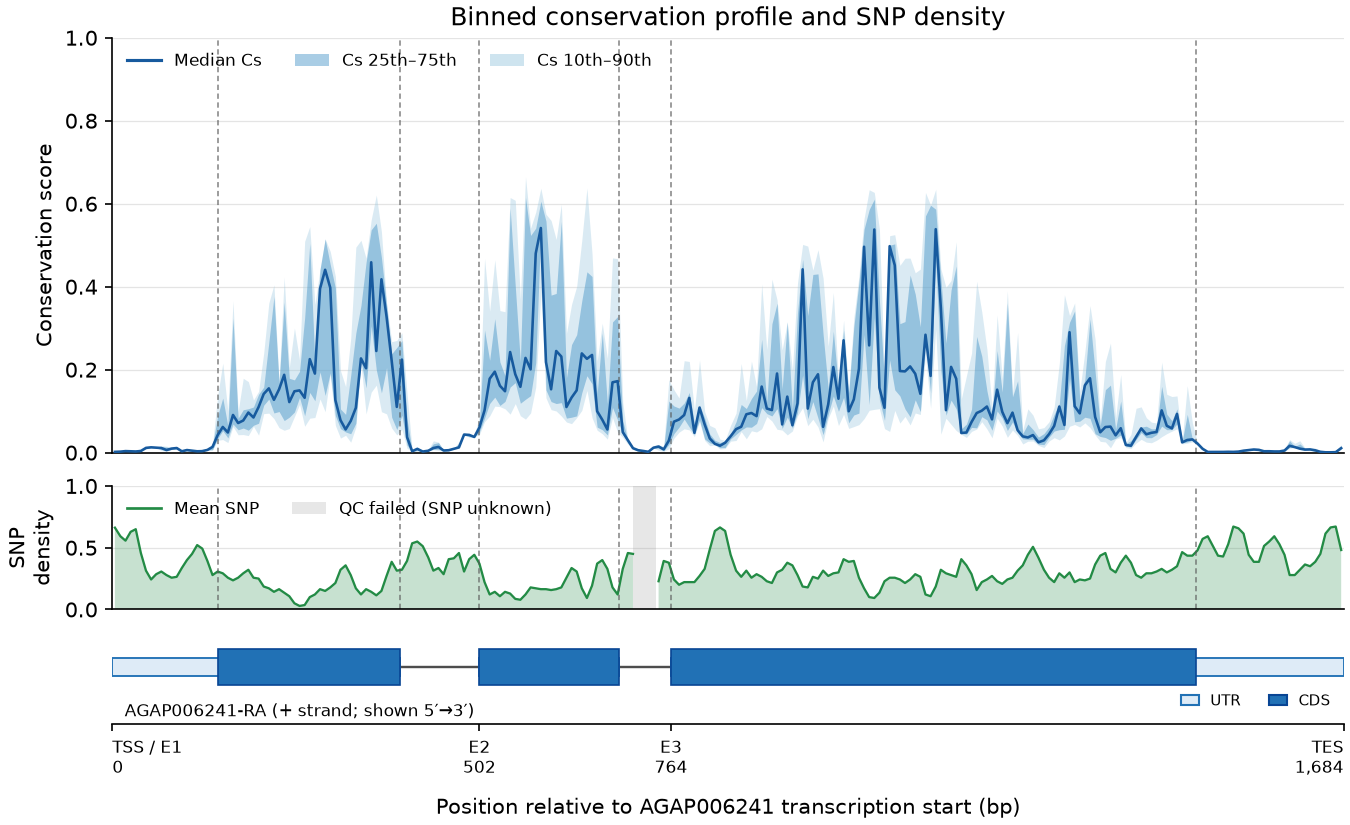
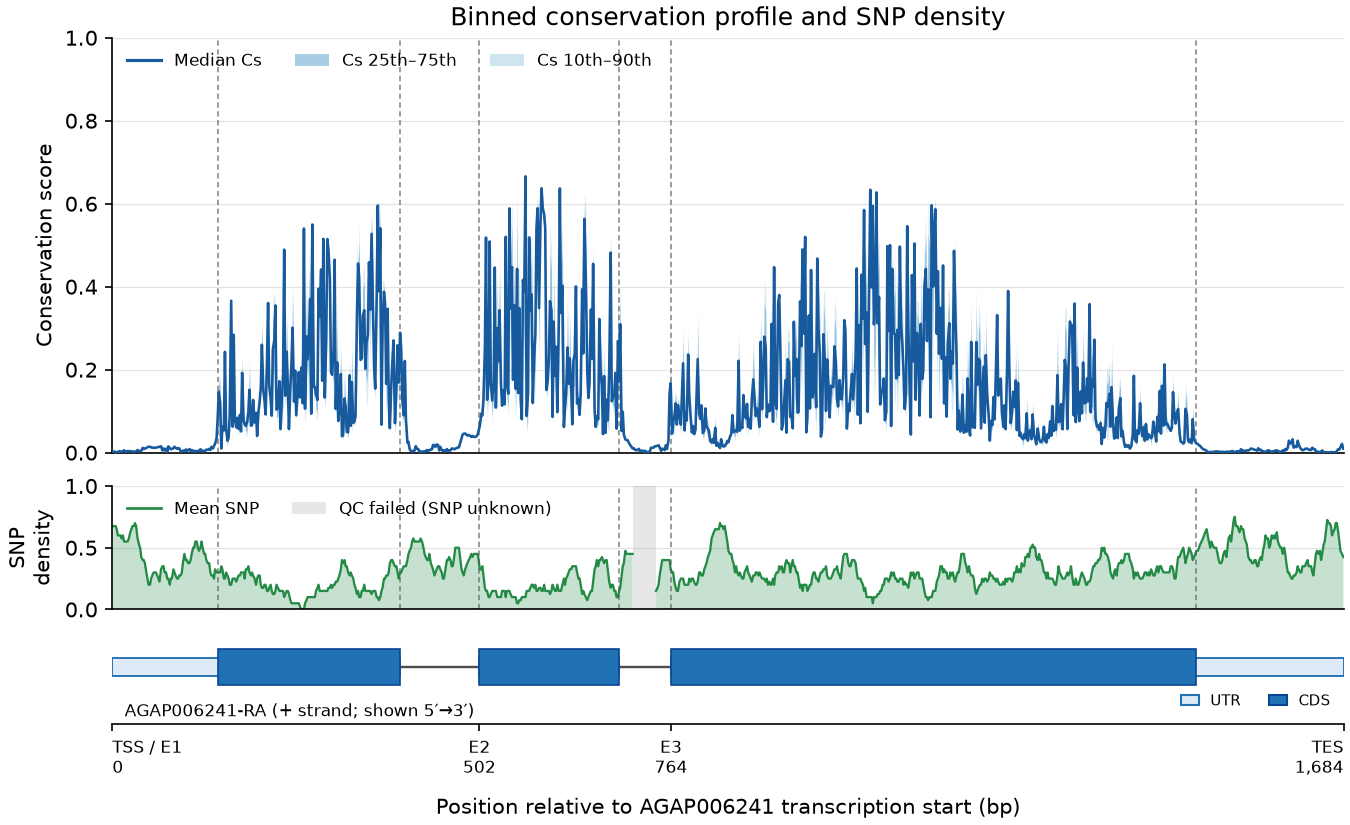
Align heatmap axes and improve plot readability

diff --git a/docs/index.html b/docs/index.html
@@ -16,15 +16,15 @@
   <title>AgamCs conservation explorer</title>
   <link rel="canonical" href="https://tycour.github.io/AgamCs/">
   <link rel="icon" href="assets/favicon.svg" type="image/svg+xml">
-  <link rel="stylesheet" href="assets/site.css?v=2026-08-30-annotation-gene-links">
-  <script src="assets/plot-model.js?v=2026-08-30-annotation-gene-links" defer></script>
-  <script src="assets/live-plots.js?v=2026-08-30-annotation-gene-links" defer></script>
-  <script src="assets/gene-search.js?v=2026-08-30-annotation-gene-links" defer></script>
-  <script src="assets/accession-lookup.js?v=2026-08-30-annotation-gene-links" defer></script>
-  <script src="assets/query-contract.js?v=2026-08-30-annotation-gene-links" defer></script>
-  <script src="assets/query-interaction.js?v=2026-08-30-annotation-gene-links" defer></script>
-  <script src="assets/analytics.js?v=2026-08-30-annotation-gene-links" data-measurement-id="G-25RC4QKPP9" defer></script>
-  <script src="assets/site.js?v=2026-08-30-annotation-gene-links" defer></script>
+  <link rel="stylesheet" href="assets/site.css?v=2026-08-30-heatmap-axis">
+  <script src="assets/plot-model.js?v=2026-08-30-heatmap-axis" defer></script>
+  <script src="assets/live-plots.js?v=2026-08-30-heatmap-axis" defer></script>
+  <script src="assets/gene-search.js?v=2026-08-30-heatmap-axis" defer></script>
+  <script src="assets/accession-lookup.js?v=2026-08-30-heatmap-axis" defer></script>
+  <script src="assets/query-contract.js?v=2026-08-30-heatmap-axis" defer></script>
+  <script src="assets/query-interaction.js?v=2026-08-30-heatmap-axis" defer></script>
+  <script src="assets/analytics.js?v=2026-08-30-heatmap-axis" data-measurement-id="G-25RC4QKPP9" defer></script>
+  <script src="assets/site.js?v=2026-08-30-heatmap-axis" defer></script>
 </head>
 <body>
   <header class="site-header">

diff --git a/docs/assets/live-plots.js b/docs/assets/live-plots.js
@@ -909,17 +909,15 @@
     addText(svg, requirePlotContract().heatmap_layout.title, plotLeft, 27, {
       fill: COLORS.ink, 'font-size': 18, 'font-weight': 700,
     });
-    addText(svg, `${result.chromosome}:${summary.displayStart.toLocaleString()}–${summary.displayEnd.toLocaleString()} · ${result.stackRows.length} metadata-ordered species · ${summary.bins.length} display bins`, plotLeft, 49, {
+    addText(svg, `${result.chromosome}:${summary.displayStart.toLocaleString()}–${summary.displayEnd.toLocaleString()} · ${result.stackRows.length} comparison species · ${summary.bins.length} display bins`, plotLeft, 49, {
       fill: COLORS.muted, 'font-size': 12,
     });
     addText(svg, 'Evidence-bounded cladogram', 22, 22, {
       fill: COLORS.muted, 'font-size': 10, 'font-weight': 650,
     });
     CLADE_NAMES.forEach((name, index) => {
-      const column = index % 2;
-      const row = Math.floor(index / 2);
-      const x = 22 + column * 108;
-      const y = 43 + row * 18;
+      const x = 22;
+      const y = 40 + index * 13;
       svg.append(svgElement('rect', { x, y: y - 9, width: 9, height: 9, fill: CLADE_COLORS[index] }));
       addText(svg, name, x + 14, y, { fill: COLORS.muted, 'font-size': 9 });
     });

diff --git a/tests/plot-model.test.js b/tests/plot-model.test.js
@@ -113,16 +113,16 @@ test('contract palette has stable bounded RGB samples', () => {
 test('heatmap geometry matches the Pages viewBox coordinate contract', () => {
   assert.deepEqual(model.heatmapGeometry(21, 500, contract), {
     width: 1000,
-    height: 653,
+    height: 667,
     plotLeft: 210,
     plotRight: 930,
     plotWidth: 720,
     plotHeight: 483,
-    rowTop: 78,
+    rowTop: 92,
     rowHeight: 23,
     cellWidth: 1.44,
   });
-  assert.equal(model.heatmapGeometry(21, 500, contract, 2).height, 851);
+  assert.equal(model.heatmapGeometry(21, 500, contract, 2).height, 824);
 });
 
 test('multi-isoform filtering is stable and matches the displayed gene frame', () => {

diff --git a/tests/live-plots.test.js b/tests/live-plots.test.js
@@ -325,7 +325,7 @@ test('Pages heatmap retains accessible SVG metadata and browser-only tooltips', 
     assert.equal(tooltip.name, 'div');
     assert.ok(svg.listeners.has('pointermove'));
     assert.ok(svg.listeners.has('pointerleave'));
-    svg.listeners.get('pointermove')({ clientX: 500, clientY: 90 });
+    svg.listeners.get('pointermove')({ clientX: 500, clientY: 100 });
     assert.equal(tooltip.hidden, false);
     assert.match(tooltip.innerHTML, /mean identity|No detected CNEr interval/);
     svg.listeners.get('pointerleave')();

diff --git a/docs/assets/query-worker.js b/docs/assets/query-worker.js
@@ -1,4 +1,4 @@
-const WORKER_RELEASE = '2026-08-30-annotation-gene-links';
+const WORKER_RELEASE = '2026-08-30-heatmap-axis';
 const SCORE_REFERENCE_URL = `data/score-reference.json?v=${WORKER_RELEASE}`;
 const ACCESSIBILITY_REFERENCE_URL = `data/accessibility-reference.json?v=${WORKER_RELEASE}`;
 const HASH_ARRAYS = ['Cs', 'snp_density', 'stack', 'status'];

diff --git a/docs/assets/site.js b/docs/assets/site.js
@@ -1,4 +1,4 @@
-const PAGES_RELEASE = '2026-08-30-annotation-gene-links';
+const PAGES_RELEASE = '2026-08-30-heatmap-axis';
 const LOCAL_FILE_PREVIEW_MESSAGE = 'This explorer cannot run from a file:// URL. From the AgamCs repository, start python3 -m http.server 8000 --directory docs, then open http://127.0.0.1:8000/.';
 
 function versionedAsset(path) {

diff --git a/AgamCs/heatmap_renderer.py b/AgamCs/heatmap_renderer.py
@@ -34,6 +34,11 @@ from .plot_model import (
 )
 
 
+LOGICAL_DPI = 72
+PNG_DPI = 144
+SPECIES_LABEL_FONT_SIZE = 10
+
+
 def _figure_coordinates(geometry, x, y):
     return x / geometry['width'], 1 - y / geometry['height']
 
@@ -41,13 +46,37 @@ def _figure_coordinates(geometry, x, y):
 def _draw_transcript_rows(fig, geometry, annotation, transcript_annotations, y_top):
     mapper = _gene_coordinate_mapper(annotation)
     minimum, maximum = 0, int(annotation['end']) - int(annotation['start'])
-    axis_height = max(40, len(transcript_annotations) * 24 + 18)
+    row_height = 24
+    axis_top = y_top + 18
+    axis_height = max(72, len(transcript_annotations) * row_height + 48)
     left = geometry['plotLeft'] / geometry['width']
-    bottom = 1 - (y_top + axis_height) / geometry['height']
+    bottom = 1 - (axis_top + axis_height) / geometry['height']
     width = geometry['plotWidth'] / geometry['width']
     axis = fig.add_axes([left, bottom, width, axis_height / geometry['height']])
     axis.set_xlim(minimum, maximum)
-    axis.set_ylim(-0.5, len(transcript_annotations) - 0.5)
+    axis.set_ylim(-1, len(transcript_annotations) - 0.5)
+
+    title_x, title_y = _figure_coordinates(geometry, geometry['plotLeft'], y_top)
+    fig.text(
+        title_x, title_y,
+        f"Transcript models ({len(transcript_annotations)}; selected/representative in bold)",
+        ha='left', va='baseline', fontsize=12, fontweight='bold', color='#172925',
+    )
+    for x, label, facecolor, edgecolor in (
+        (700, 'UTR', UTR_FACE_COLOR, UTR_EDGE_COLOR),
+        (808, 'CDS', CDS_FACE_COLOR, CDS_EDGE_COLOR),
+    ):
+        box_x, box_y = _figure_coordinates(geometry, x, y_top + 8)
+        fig.add_artist(Rectangle(
+            (box_x, box_y), 16 / geometry['width'], 10 / geometry['height'],
+            transform=fig.transFigure, facecolor=facecolor, edgecolor=edgecolor,
+            linewidth=0.8,
+        ))
+        fig.text(
+            *_figure_coordinates(geometry, x + 22, y_top), label,
+            ha='left', va='baseline', fontsize=11, color='#5d6b67',
+        )
+
     for row, transcript in enumerate(reversed(transcript_annotations)):
         selected = transcript.get('transcript_id') == annotation.get('transcript_id')
         exons = []
@@ -76,8 +105,23 @@ def _draw_transcript_rows(fig, geometry, annotation, transcript_annotations, y_t
                     ))
         axis.text(-0.01, row, transcript.get('transcript_id', ''),
                   transform=axis.get_yaxis_transform(), ha='right', va='center',
-                  fontsize=7, fontweight='bold' if selected else 'normal')
-    axis.axis('off')
+                  fontsize=9, fontweight='bold' if selected else 'normal')
+
+    ticks = np.linspace(minimum, maximum, 7)
+    axis.set_xticks(ticks, [f'{round(value):,}' for value in ticks])
+    axis.set_xlabel(
+        f"Position relative to {annotation['id']} transcription start (bp)",
+        fontsize=12, color='#172925', labelpad=8,
+    )
+    axis.tick_params(
+        axis='x', which='both', bottom=True, top=False, labelbottom=True,
+        colors='#5d6b67', labelsize=10, length=4, width=0.8, pad=4,
+    )
+    axis.tick_params(axis='y', left=False, labelleft=False)
+    for name in ('top', 'left', 'right'):
+        axis.spines[name].set_visible(False)
+    axis.spines['bottom'].set_color('#5d6b67')
+    axis.spines['bottom'].set_linewidth(0.8)
 
 
 def _add_svg_accessibility(path, title, description):
@@ -125,8 +169,8 @@ def render_heatmap(
     layout = contract['heatmap_layout']
 
     fig = plt.figure(
-        figsize=(geometry['width'] / 72, geometry['height'] / 72),
-        dpi=72,
+        figsize=(geometry['width'] / LOGICAL_DPI, geometry['height'] / LOGICAL_DPI),
+        dpi=LOGICAL_DPI,
         facecolor='white',
     )
     plot_bottom = 1 - (geometry['rowTop'] + geometry['plotHeight']) / geometry['height']
@@ -179,7 +223,11 @@ def render_heatmap(
             geometry, geometry['plotLeft'] - 12,
             geometry['rowTop'] + (row_index + 0.68) * geometry['rowHeight'],
         )
-        fig.text(x, y, label, ha='right', va='center', fontsize=7.9,
+        # Matplotlib's default sans-serif face is wider than the browser's
+        # Inter/system stack. Ten points preserves the Pages visual scale while
+        # keeping the longest label clear of the cladogram's clade strip.
+        fig.text(x, y, label, ha='right', va='center',
+                 fontsize=SPECIES_LABEL_FONT_SIZE,
                  fontstyle='italic', fontweight='semibold', color='#172925')
         clade_index = next(
             index for index, (_name, codes, _foreground, _background)
@@ -198,12 +246,12 @@ def render_heatmap(
 
     title_x, title_y = _figure_coordinates(geometry, geometry['plotLeft'], 27)
     fig.text(title_x, title_y, layout['title'], ha='left', va='baseline',
-             fontsize=13, fontweight='bold', color='#172925')
+             fontsize=18, fontweight='bold', color='#172925')
     subtitle_x, subtitle_y = _figure_coordinates(geometry, geometry['plotLeft'], 49)
     fig.text(
         subtitle_x, subtitle_y,
-        f"{len(result['stackRows'])} metadata-ordered species · {bin_count} display bins",
-        ha='left', va='baseline', fontsize=8.5, color='#5d6b67',
+        f"{len(result['stackRows'])} comparison species · {bin_count} display bins",
+        ha='left', va='baseline', fontsize=12, color='#5d6b67',
     )
     legend_y = geometry['rowTop'] + geometry['plotHeight'] + 27
     legend_x, legend_fig_y = _figure_coordinates(geometry, geometry['plotLeft'], legend_y)
@@ -211,7 +259,7 @@ def render_heatmap(
         handles=[Patch(facecolor=np.asarray(contract['palette']['no_interval_rgb']) / 255,
                        label=layout['no_interval_label'])],
         loc='center left', bbox_to_anchor=(legend_x, legend_fig_y),
-        frameon=False, fontsize=8,
+        frameon=False, fontsize=11,
     )
     gradient_axis = fig.add_axes([
         700 / geometry['width'],
@@ -225,29 +273,22 @@ def render_heatmap(
     gradient_axis.imshow(gradient, aspect='auto', interpolation='nearest')
     gradient_axis.axis('off')
     fig.text(*_figure_coordinates(geometry, 696, legend_y + 16), '0',
-             ha='center', va='baseline', fontsize=7, color='#5d6b67')
+             ha='center', va='baseline', fontsize=10, color='#5d6b67')
     fig.text(*_figure_coordinates(geometry, 894, legend_y + 16), '100',
-             ha='center', va='baseline', fontsize=7, color='#5d6b67')
+             ha='center', va='baseline', fontsize=10, color='#5d6b67')
     fig.text(
         *_figure_coordinates(geometry, 795, legend_y + 32),
-        layout['identity_label'], ha='center', va='baseline', fontsize=8, color='#5d6b67',
+        layout['identity_label'], ha='center', va='baseline', fontsize=11, color='#5d6b67',
     )
     for index, (name, _codes, foreground, _background) in enumerate(CLADE_STYLES):
-        column, row = index % 2, index // 2
-        fig.text(*_figure_coordinates(geometry, 36 + column * 108, 43 + row * 18),
-                 name, ha='left', va='baseline', fontsize=6.5, color=foreground)
+        fig.text(*_figure_coordinates(geometry, 36, 40 + index * 13),
+                 name, ha='left', va='baseline', fontsize=9, color=foreground)
     fig.text(*_figure_coordinates(geometry, 22, 22), 'Evidence-bounded cladogram',
-             ha='left', va='baseline', fontsize=7, color='#5d6b67')
+             ha='left', va='baseline', fontsize=10, color='#5d6b67')
 
     if applied_annotation:
         _draw_transcript_rows(
             fig, geometry, applied_annotation, transcript_annotations, legend_y + 60,
-        )
-        fig.text(
-            *_figure_coordinates(geometry, (geometry['plotLeft'] + geometry['plotRight']) / 2,
-                                  geometry['height'] - 24),
-            f"Position relative to {applied_annotation['id']} transcription start (bp)",
-            ha='center', va='baseline', fontsize=8.5, color='#172925',
         )
 
     description = (
@@ -260,10 +301,10 @@ def render_heatmap(
     png_output_path = Path(png_output_path)
     svg_output_path.parent.mkdir(parents=True, exist_ok=True)
     png_output_path.parent.mkdir(parents=True, exist_ok=True)
-    fig.savefig(svg_output_path, format='svg', dpi=72, metadata={
+    fig.savefig(svg_output_path, format='svg', dpi=LOGICAL_DPI, metadata={
         'Description': description,
     })
-    fig.savefig(png_output_path, format='png', dpi=72, facecolor='white')
+    fig.savefig(png_output_path, format='png', dpi=PNG_DPI, facecolor='white')
     plt.close(fig)
     _add_svg_accessibility(svg_output_path, layout['title'], description)
     return model

diff --git a/tests/test_plot_model.py b/tests/test_plot_model.py
@@ -359,6 +359,9 @@ def test_renderer_writes_contract_geometry_svg_and_png_without_node(tmp_path, mo
     assert '<desc id="agamcs-heatmap-description">' in svg_text
     assert 'Zero means no detected CNEr interval' in svg_text
     assert 'QC-failed SNP positions remain unknown' in svg_text
+    assert 'Transcript models (2; selected/representative in bold)' in svg_text
+    assert 'Position relative to AGAPPOC transcription start (bp)' in svg_text
+    assert '<g id="matplotlib.axis_1">' in svg_text
     first_cell = model['heatmap']['cells'][0][0]
     first_rgb = blended_identity_rgb(
         first_cell['identity'], first_cell['detectedFraction'], contract,
@@ -366,7 +369,7 @@ def test_renderer_writes_contract_geometry_svg_and_png_without_node(tmp_path, mo
     assert f"#{''.join(f'{channel:02x}' for channel in first_rgb)}" in svg_text.lower()
     assert png.stat().st_size > 0
     assert mpimg.imread(png).shape[:2] == (
-        expected_geometry['height'], expected_geometry['width'],
+        expected_geometry['height'] * 2, expected_geometry['width'] * 2,
     )
 
 

diff --git a/README.md b/README.md
@@ -2,13 +2,13 @@
 
 **Use AgamCs in your browser:** [open the AgamCs research portal](https://tycour.github.io/AgamCs/).
 
-The GitHub Pages portal is the easiest way to query a current AgamP4.14
-`AGAP...` gene or exact transcript isoform on 2L, 2R, 3L, 3R, or X, or to enter
-AgamP4 genomic coordinates, then inspect the figures and download exact values.
-Either query mode can optionally add representative transcript tracks for every
-indexed gene overlapping the displayed region.
-Every transcript-ID label in the browser figures links to its parent gene's
-VectorBase record in a new tab.
+The GitHub Pages portal is the easiest way to find a current AgamP4.14 gene by
+official symbol or `AGAP...` accession, query an exact transcript isoform on 2L,
+2R, 3L, 3R, or X, or enter AgamP4 genomic coordinates, then inspect the figures
+and download exact values.
+Either query mode can optionally show a representative transcript for each
+indexed gene overlapping the displayed region, with transcript labels linking
+to the parent gene's VectorBase record.
 The conservation arrays are from the published AgamP4 dataset; AgamP4.14 refers
 to the current VectorBase annotation index used for gene and transcript lookup.
 The portal is available without installation. The command-line tool below is
@@ -104,10 +104,12 @@ why the binned summary is usually the better presentation view.
 
 ![Base-level conservation and SNP-density plot for AGAP006241](results/AGAP006241/AGAP006241/AGAP006241_cs_snp_density.png)
 
-The heatmap shows cross-species identity for the same interval, with CDS guides
-aligned to the signal plots.
+The current species heatmap places an evidence-bounded cladogram beside 21
+comparison species. CDS guides sit above the heatmap, the charcoal
+and identity legends are separated below it, and the transcript model remains
+aligned to the same genomic axis used by the signal plots.
 
-![AGAP006241 cross-species identity heatmap](results/AGAP006241/AGAP006241/AGAP006241_heatmap.png)
+[![AGAP006241 cross-species identity heatmap with cladogram, species rows, identity legend, and aligned transcript model](results/AGAP006241/AGAP006241/AGAP006241_heatmap.png)](results/AGAP006241/AGAP006241/AGAP006241_heatmap.png)
 
 The CLI heatmap is canonical SVG with a retained PNG counterpart; the other CLI
 figures remain PNG. The Pages portal renders the same contract-defined heatmap
@@ -200,34 +202,19 @@ and the rebuild procedure are in
 
 Try the [no-install GitHub Pages portal](https://tycour.github.io/AgamCs/).
 Its versioned VectorBase-68 index resolves 13,097 AgamP4.14 genes and 15,317
-transcript isoforms on the five supported chromosomes; an autocomplete also
-matches 2,255 official AgamP4 gene symbols from a separately versioned naming
-index. It uses the published AgamP4 conservation arrays. A bare gene ID retains
-the representative-transcript default while showing every isoform as aligned
-annotation rows beneath both plots; an exact ID such as `AGAP000040-RA` uses
-that isoform's transcript span, exons and CDS bounds. Gene, transcript and
-coordinate queries read only the required `Cs`, raw SNP-density, species-stack,
-and separate QC ranges from the Zenodo data and render live browser plots;
-featured examples remain as shortcuts in the same query form. The inclusive
-browser query limit is 200,000 bases. This is an engineering/browser ceiling,
-not a biological threshold: it supports 13,080 of 13,097 indexed genes
-(99.8702%), while the 17 longer genes remain CLI-only. Failed accessibility/QC
-positions remain separate from the raw SNP-density values and are shown as
-unknown. Browser reads require HTTP 206 partial-content responses; the exact TSV
-retains every base and all 21 stack values while adaptive or explicitly selected
-display bins affect plots and SVG downloads only. Range zoom can be chosen by
-dragging across either plot or entering inclusive genomic coordinates; nested
-zoom-out and full-query reset rerender the retained source arrays without a new
-Zenodo request. Plot selections expand to the touched display-bin boundaries,
-while the exact TSV and query summary remain scoped to the complete query.
-An optional annotation control works for both accession and manual-coordinate
-queries. It adds one representative transcript for each other indexed gene
-overlapping the current displayed range and updates locally as the plots are
-zoomed; the queried gene keeps its selected transcript or complete isoform set.
-Each transcript label in either browser figure is a direct link to its parent
-gene's VectorBase record.
-Publishing and
-implementation details are documented in
+transcript isoforms on chromosomes 2L, 2R, 3L, 3R, and X. Its autocomplete
+matches 2,255 official AgamP4 gene symbols: for example, typing `ZPG` suggests
+`AGAP006241` (Innexin inx2). It uses the published AgamP4 conservation arrays.
+Failed accessibility/QC positions are shown as unknown rather than zero. You
+can add flanking sequence to accession queries, change the plot resolution
+without rerunning the genomic query, and download the figures and exact values.
+Drag across either plot, or enter inclusive coordinates, to focus on a range;
+use **Zoom out** to step back or **Reset full query** to restore the complete
+view. The optional overlapping-gene control adds one representative transcript
+per other gene in view, and transcript labels link to VectorBase.
+Query processing runs in the browser. Optional aggregate usage analytics are
+sent only after consent and never include accessions, coordinates, results,
+filenames, or errors. Publishing and implementation details are documented in
 [`docs/github-pages-prototype.md`](docs/github-pages-prototype.md).
 For larger intervals, custom highlight ranges, local-HDF5 use, and fully
 reproducible batch output, use the CLI.

diff --git a/docs/browser-hdf5-feasibility.md b/docs/browser-hdf5-feasibility.md
@@ -117,7 +117,7 @@ The live figures preserve the current plotting semantics:
 - median Cs with 25th–75th and 10th–90th percentile ribbons;
 - mean SNP density over accessible bases, with QC-failed bases shaded as
   unknown rather than converted to zero;
-- metadata-ordered species labels and an explicit categorical colour for no
+- comparison-species labels and an explicit categorical colour for no
   detected CNEr interval;
 - pinned plus- and minus-strand gene models shown 5′→3′ with aligned exon and
   CDS landmarks;
